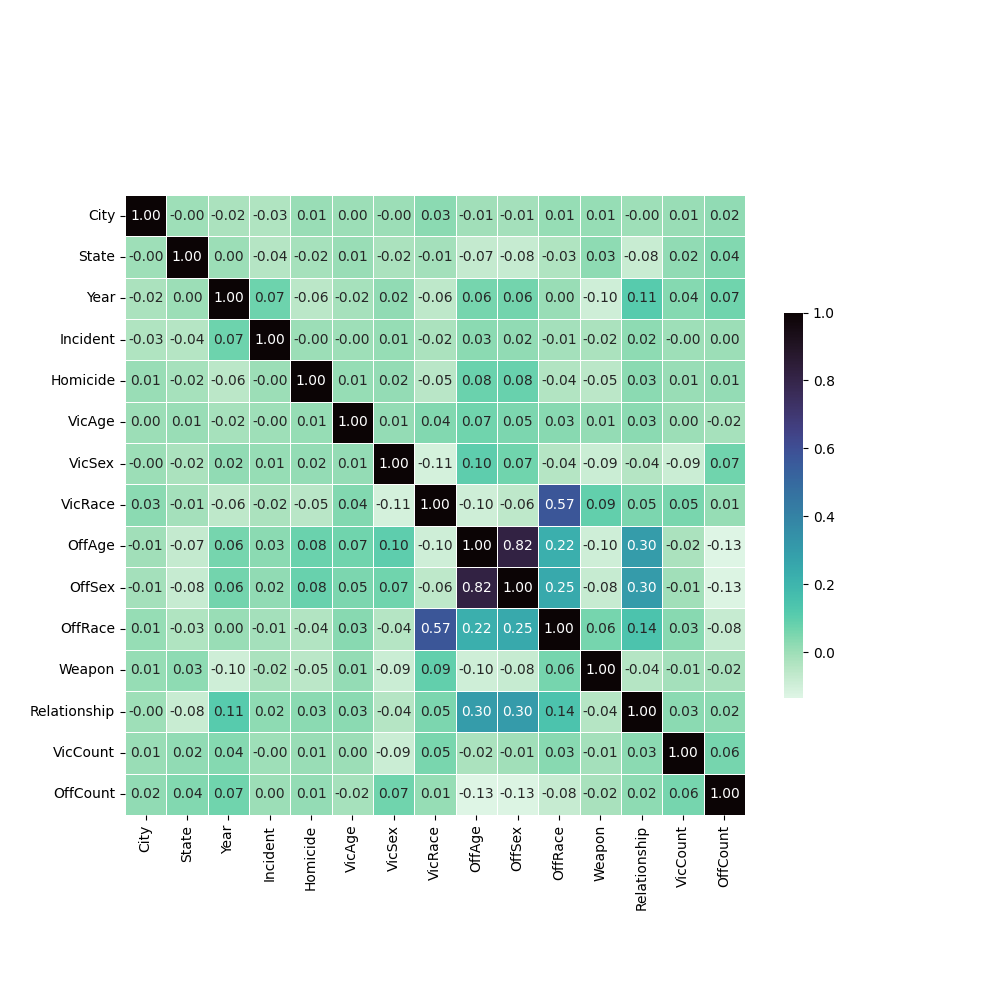
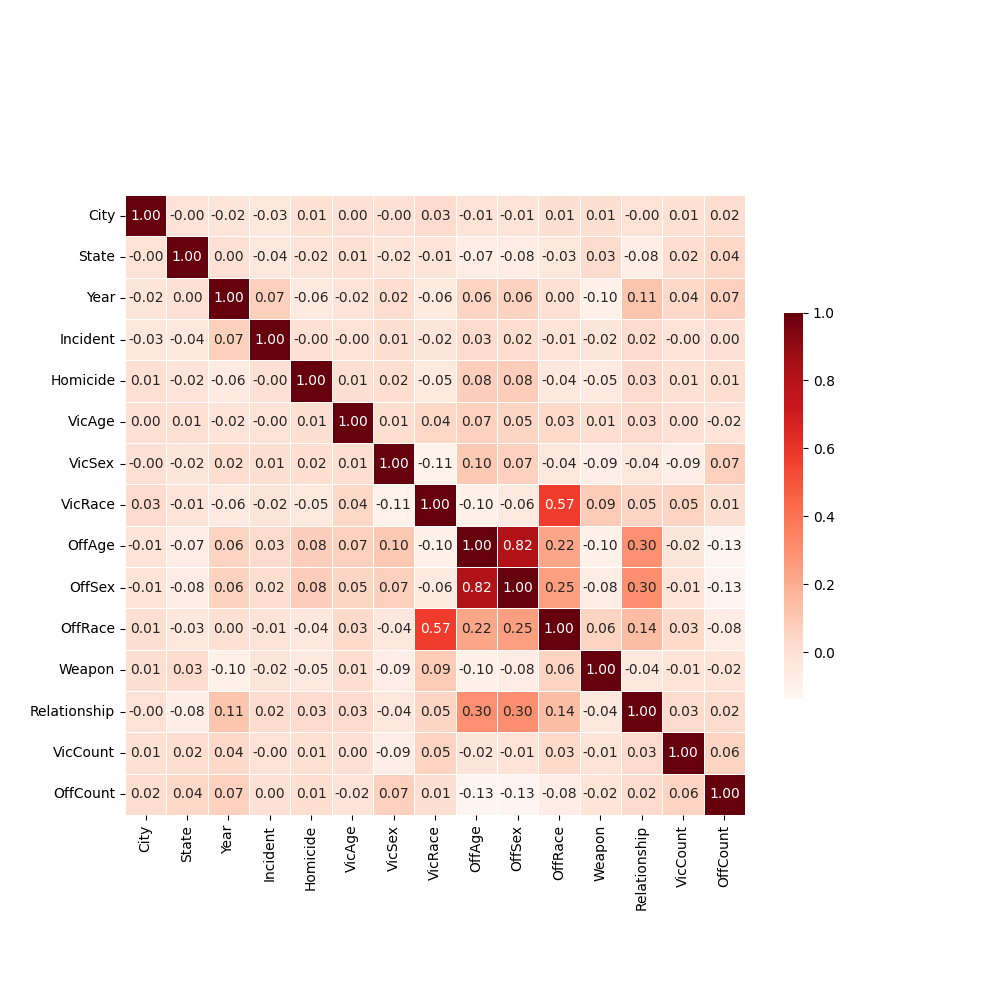
Images for PPT

diff --git a/textcloud.py b/textcloud.py
@@ -2,16 +2,14 @@ from wordcloud import WordCloud
 from collections import Counter
 import matplotlib.pyplot as plt
 
-
 def open_file(path: str) -> str:
     content = ""
     with open(path, "r") as f:
         content = f.readlines()
     return " ".join(content)
 
-
 all_words = ""
-frase = open_file("rawtext.txt") # "hola a todos muchas  palabras palabras hola muchas hola hola hola palabras palabras hola muchas hola hola hola palabras palabras hola muchas hola hola hola palabras palabras hola muchas hola hola hola"
+frase = open_file("rawtext.txt") 
 palabras = frase.rstrip().split(" ")
 
 Counter(" ".join(palabras).split()).most_common(10)
@@ -20,9 +18,9 @@ for arg in palabras:
     tokens = arg.split()
     all_words += " ".join(tokens) + " "
 
-print(all_words)
+# print(all_words)
 wordcloud = WordCloud(
-    min_font_size=5, colormap='Reds', mode='RGBA'
+    background_color='black' , min_font_size=5, colormap='Reds'
 ).generate(all_words)
 
 # print(all_words)
@@ -34,5 +32,5 @@ plt.axis("off")
 plt.tight_layout(pad=0)
 
 # plt.show()
-plt.savefig("img/word_cloud.svg")
+plt.savefig("img/word_cloud.png")
 plt.close()

diff --git a/linearregression.py b/linearregression.py
@@ -61,7 +61,7 @@ f = plt.figure(figsize=(10, 10))
 # plt.title('Correlation Matrix', fontsize=16)
 # plt.savefig('img/Correlation.png')
 
-sn.heatmap(correlation, cmap="mako_r", square=True, linewidths=.5, cbar_kws={"shrink": .5}, annot=True, fmt=".2f")
+sn.heatmap(correlation, cmap="Reds", square=True, linewidths=.5, cbar_kws={"shrink": .5}, annot=True, fmt=".2f")
 plt.savefig('img/correlation.png')
 
 correlation.to_csv('csv/Correlation.csv', index=False)
